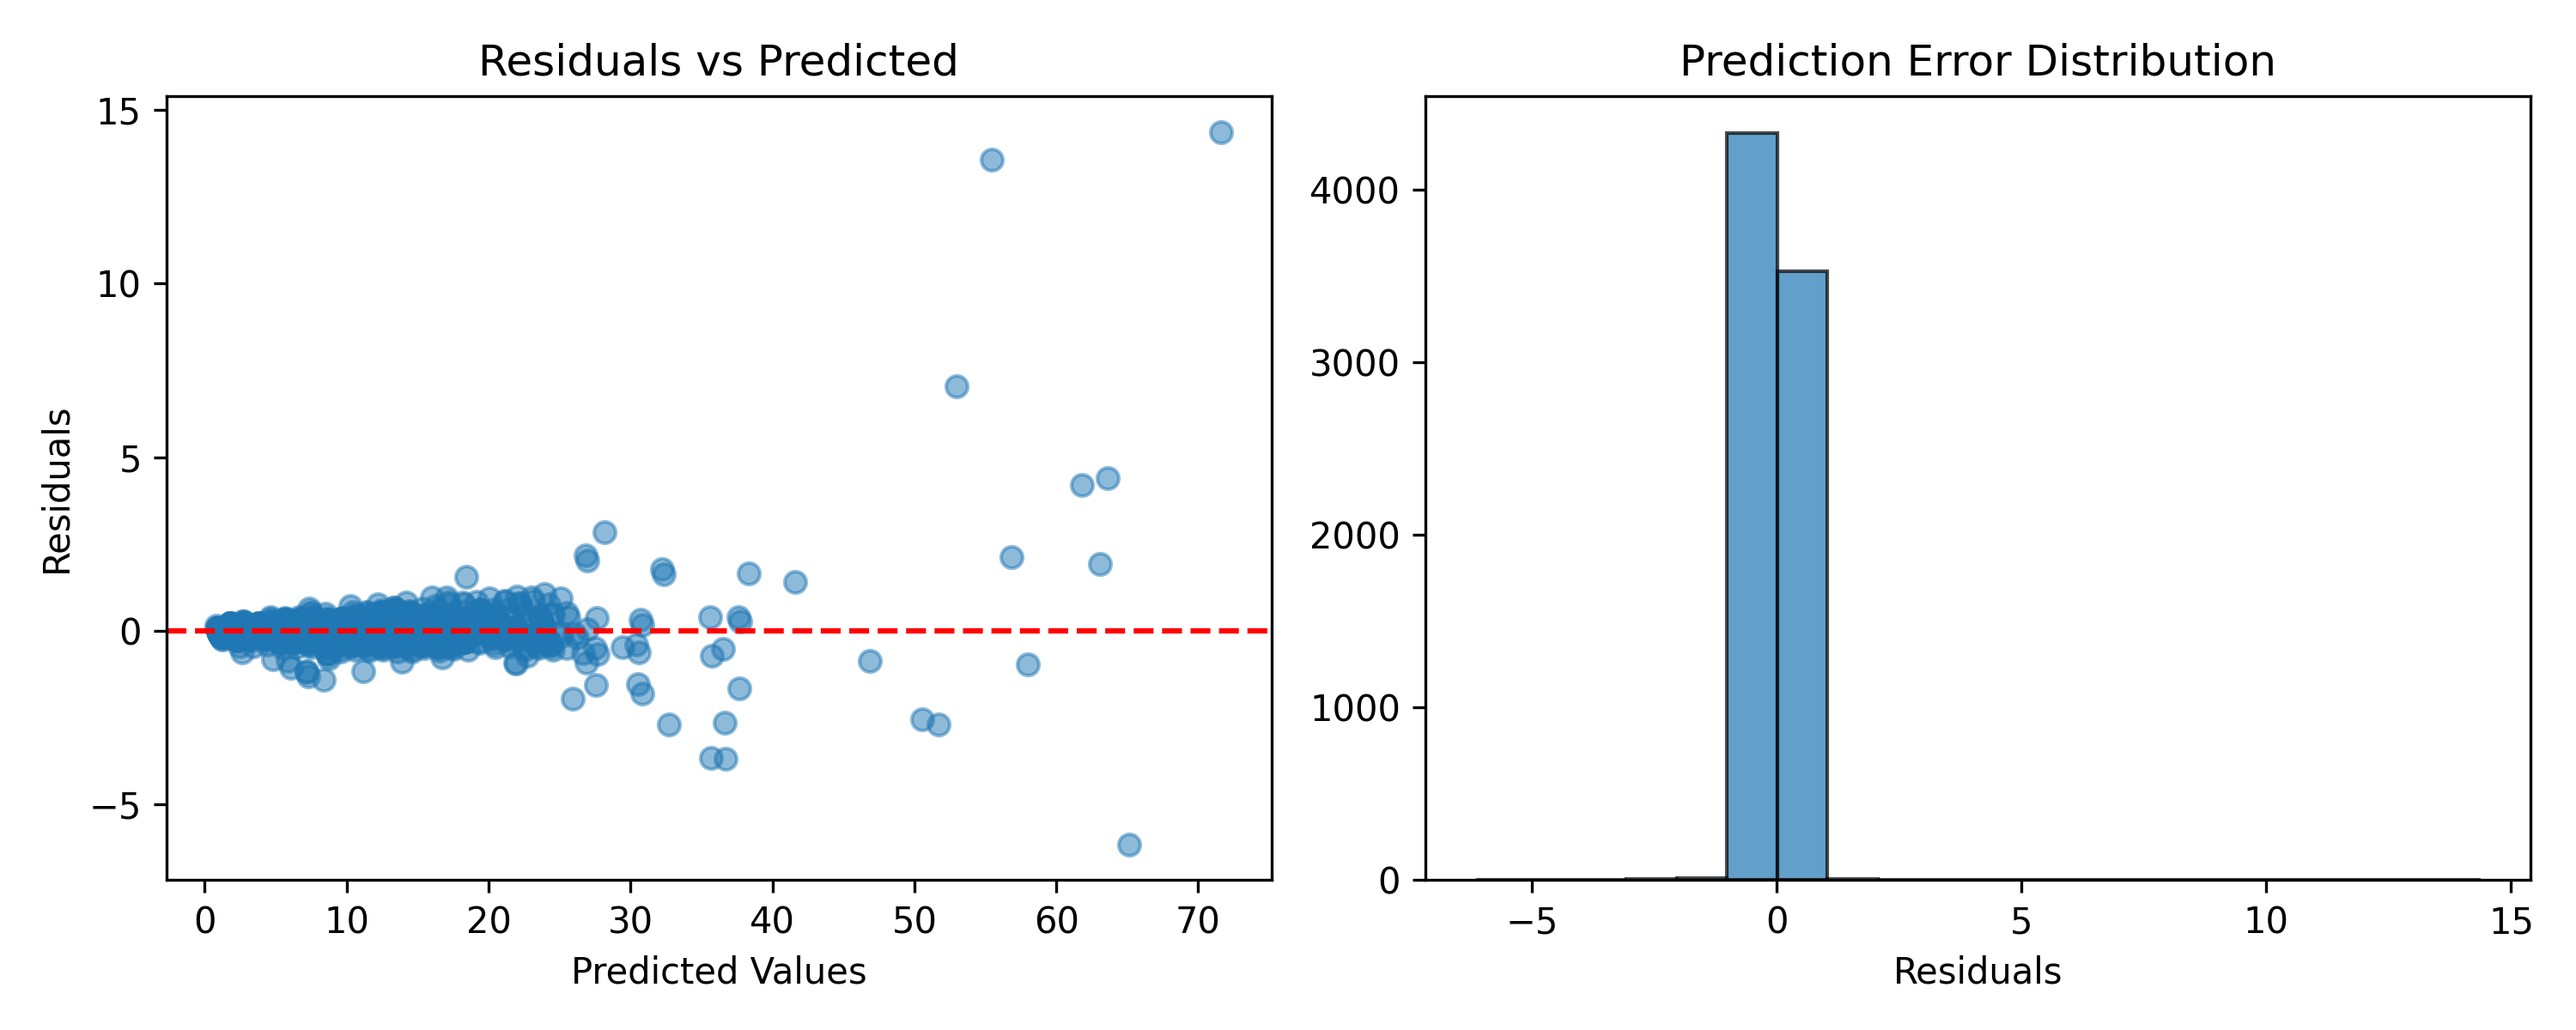
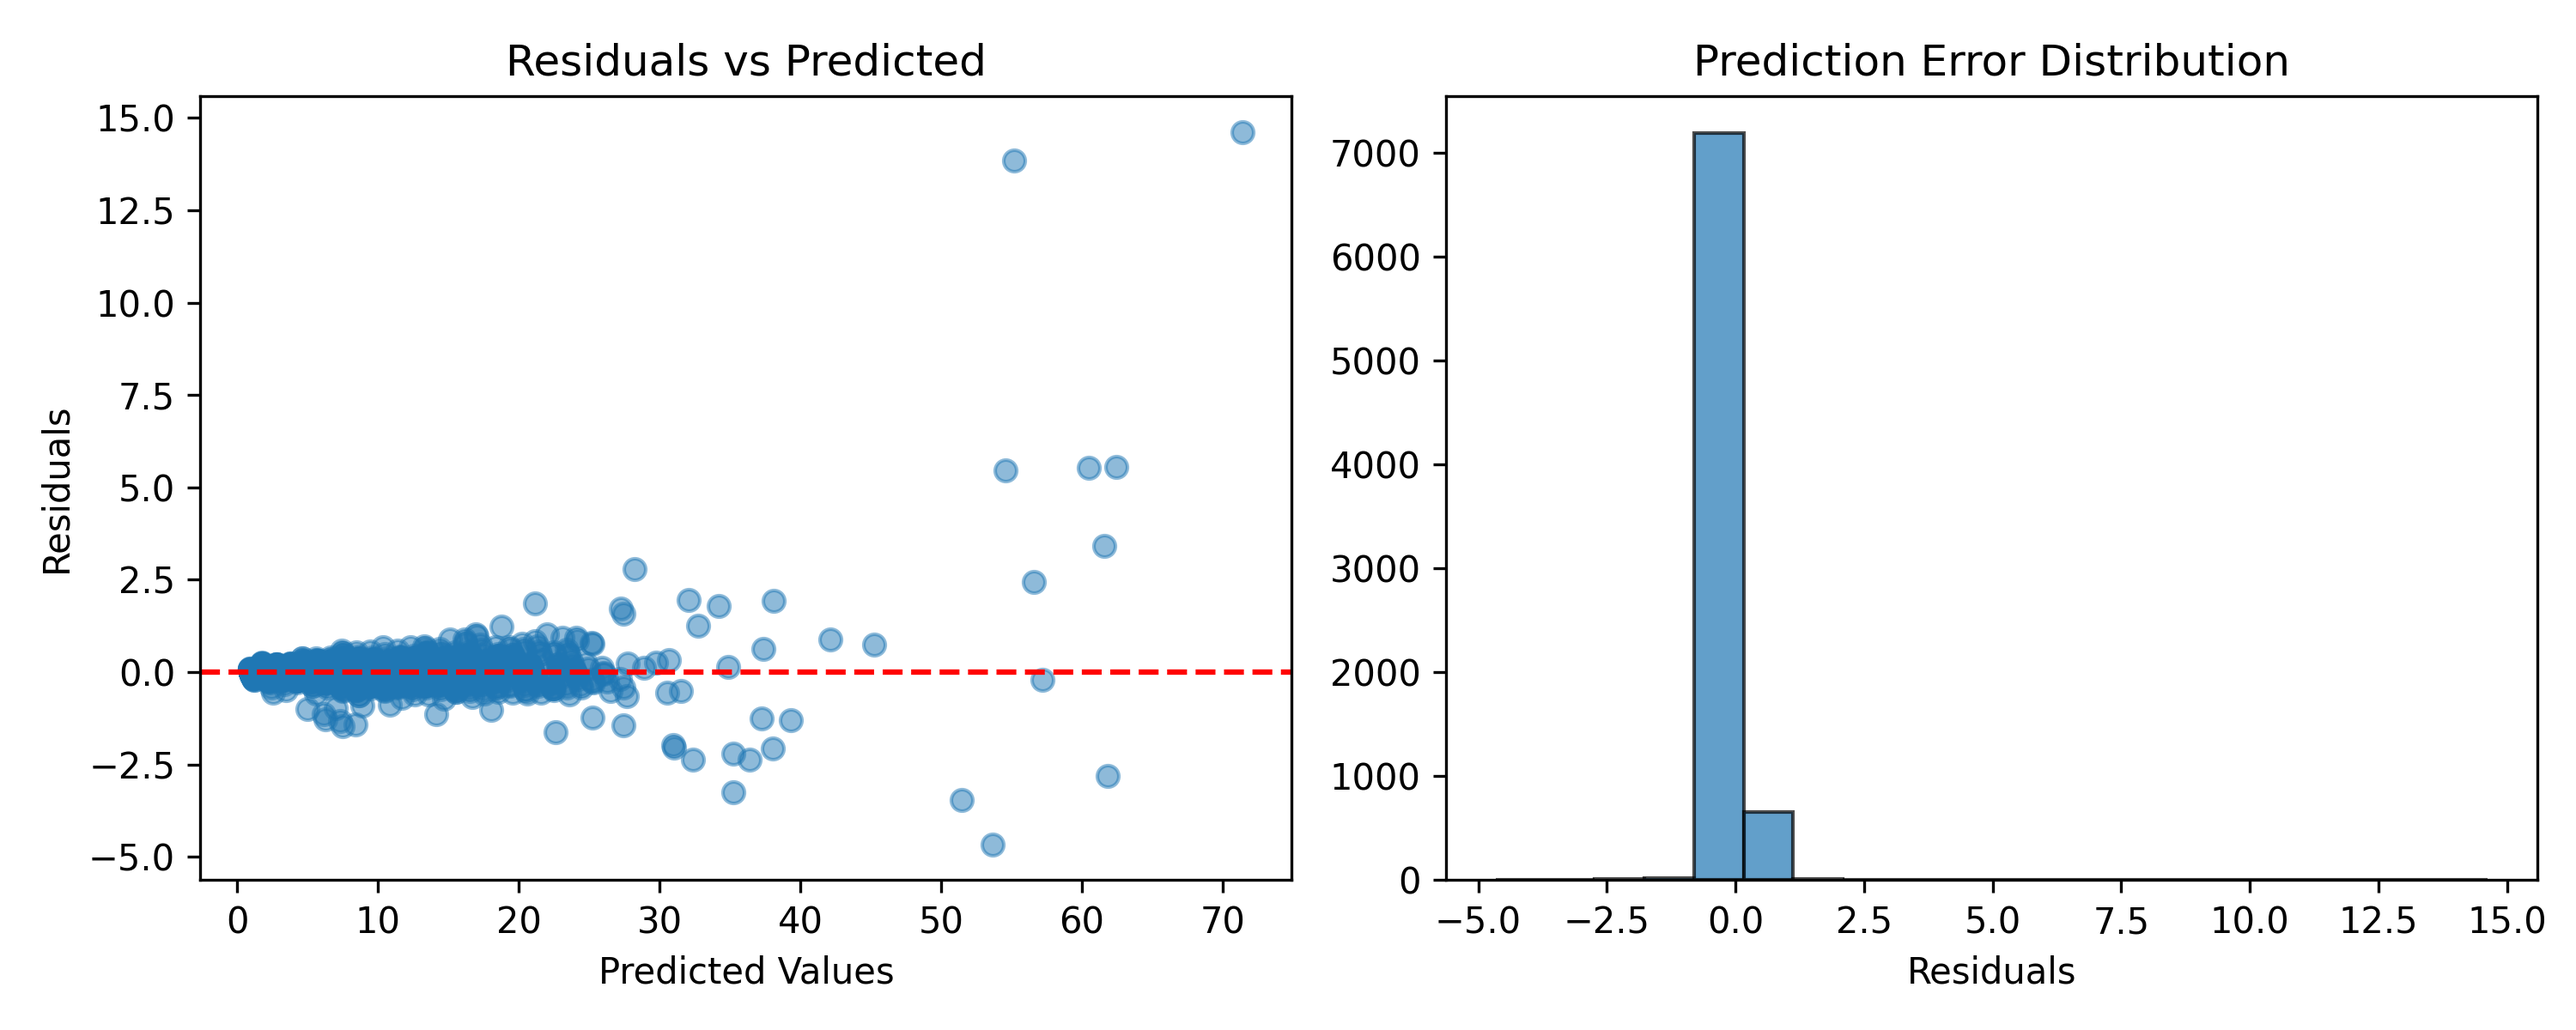
sorting improvements to code

diff --git a/scripts/xgboost_predictions_12m.py b/scripts/xgboost_predictions_12m.py
@@ -117,6 +117,9 @@ def prepare_features(df: pd.DataFrame) -> Tuple[pd.DataFrame, list]:
     """Prepare features for modeling."""
     df = df.copy()
     df['Month'] = pd.to_datetime(df['Month'])
+
+    # Ensure records are chronologically sorted per ward
+    df = df.sort_values(['WD24CD', 'Month'])
     
     # Load and merge socioeconomic data
     ward_pop = load_ward_population(LOOKUPS / "ward_pop2022.csv")
